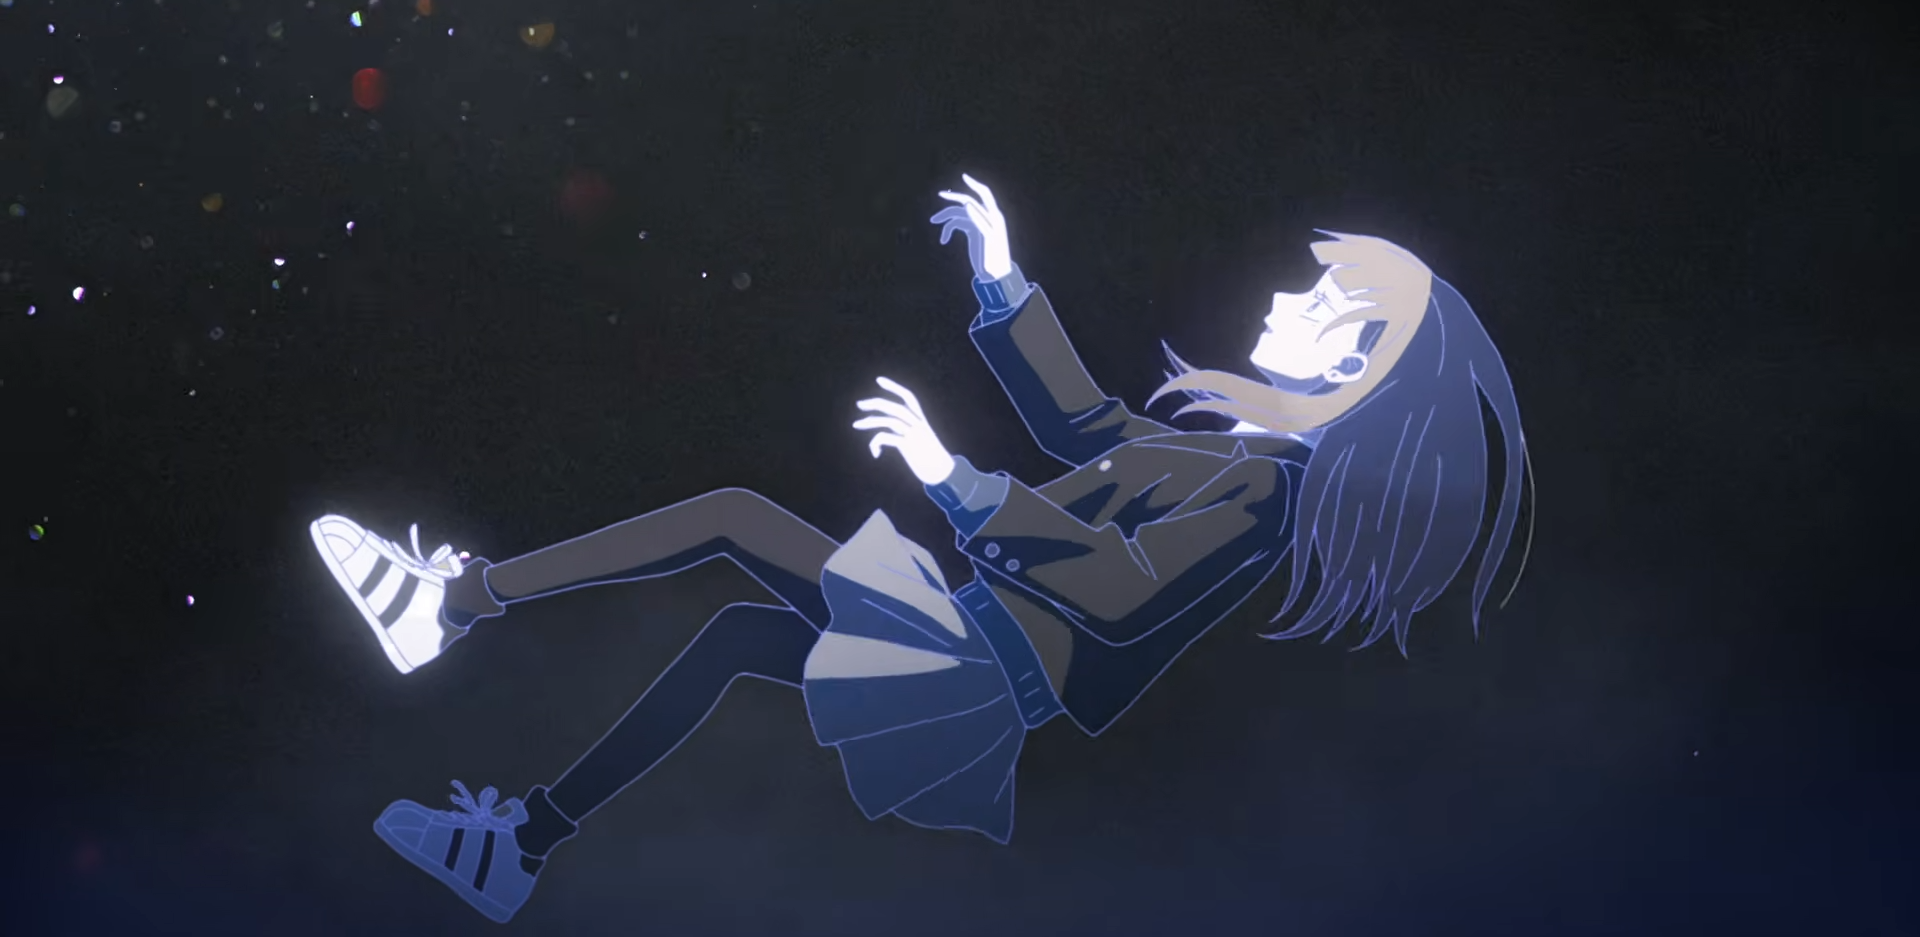
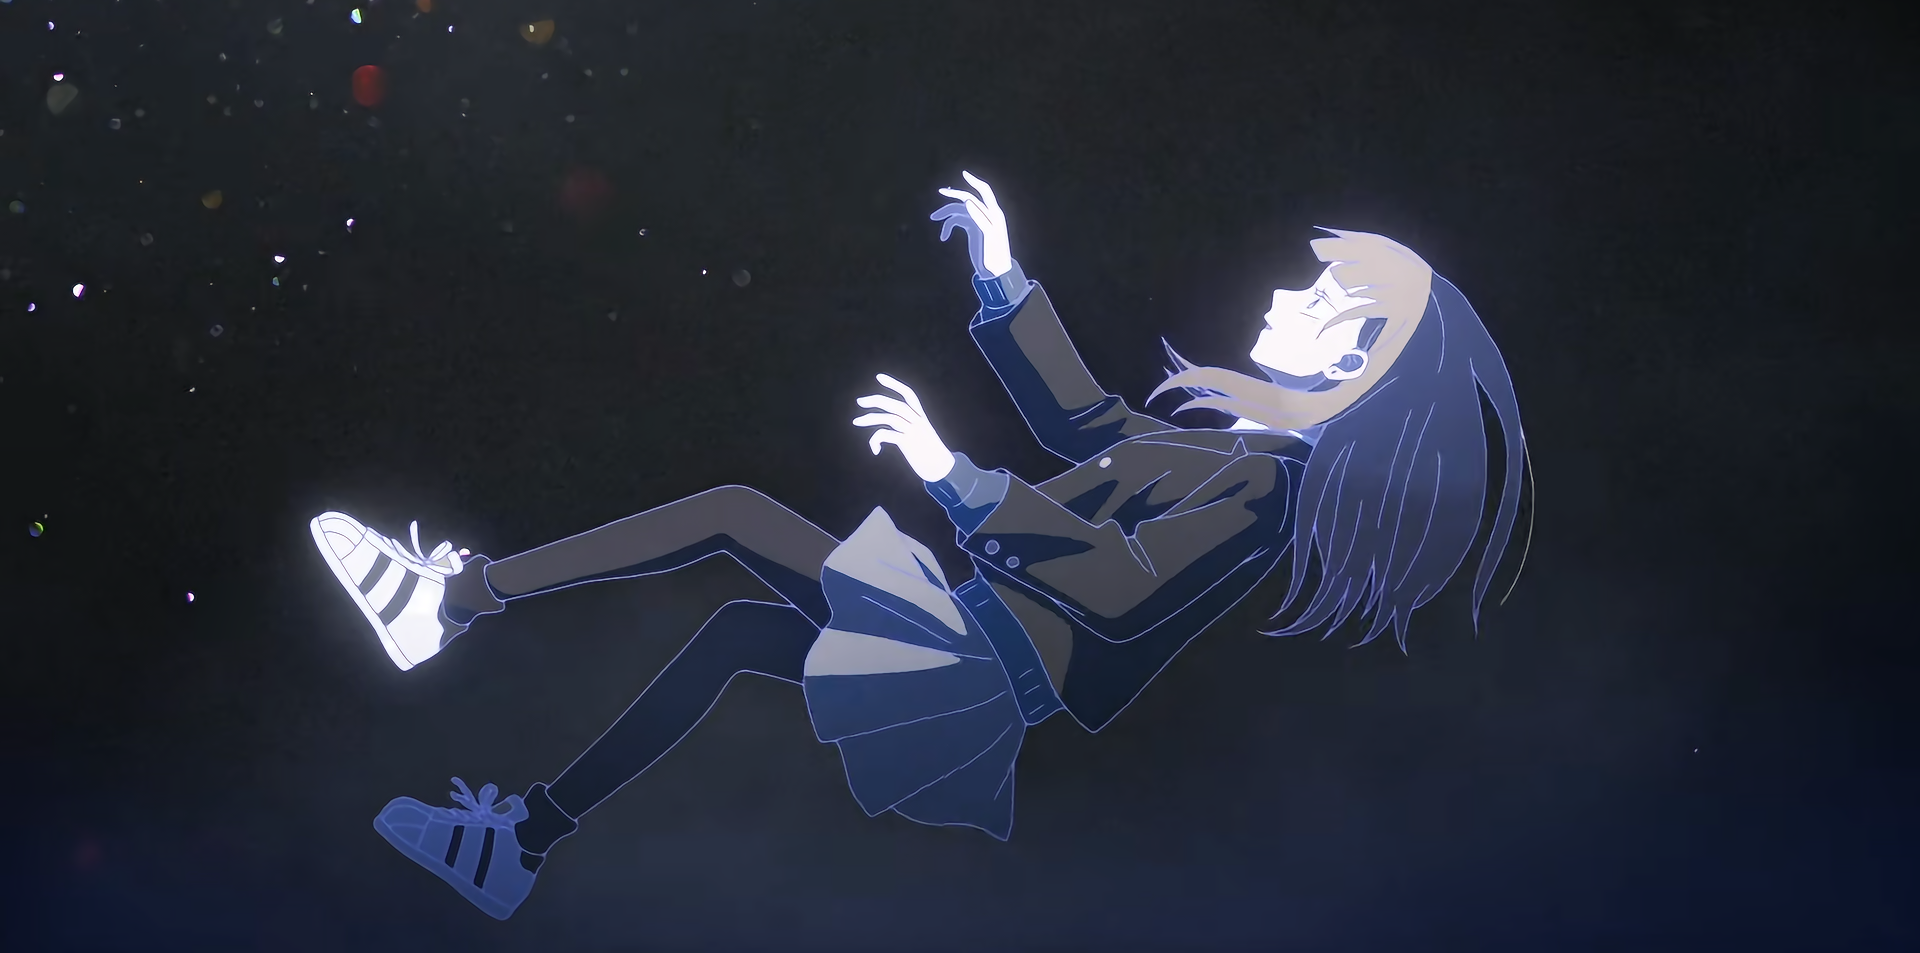
Fixed the movable windows class a bit

diff --git a/JS/Classes.js b/JS/Classes.js
@@ -205,21 +205,20 @@ class MovableWindow {
         this.win.style.position = "absolute";
         this.bar.style.cursor = "grab";
 
-        this.bar.addEventListener("mousedown", this.onMouseDown);
-        window.addEventListener("mousemove", this.onMouseMove);
-        window.addEventListener("mouseup", this.onMouseUp);
+        this.bar.addEventListener("pointerdown", this.onPointerDown);
+        window.addEventListener("pointermove", this.onPointerMove);
+        window.addEventListener("pointerup", this.onPointerUp);
+        window.addEventListener("pointercancel", this.onPointerUp);
     }
 
-    onMouseDown = (e) => {
+    onPointerDown = (e) => {
+        e.preventDefault();
         this.dragging = true;
-
         const rect = this.win.getBoundingClientRect();
-
         this.offsetX = e.clientX - rect.left;
         this.offsetY = e.clientY - rect.top;
-
         this.bar.style.cursor = "grabbing";
-
+        this.bar.setPointerCapture(e.pointerId);
         const computed = window.getComputedStyle(this.win);
         const right = computed.right !== "auto";
         const bottom = computed.bottom !== "auto";
@@ -234,28 +233,20 @@ class MovableWindow {
         document.body.style.userSelect = "none";
     };
 
-    onMouseMove = (e) => {
+    onPointerMove = (e) => {
         if (!this.dragging) return;
-
         const w = this.win.offsetWidth;
         const h = this.win.offsetHeight;
-
-        const maxX = window.innerWidth - w;
-        const maxY = window.innerHeight - h;
-
         let x = e.clientX - this.offsetX;
         let y = e.clientY - this.offsetY;
-
-        x = Math.max(0, Math.min(maxX, x));
-        y = Math.max(0, Math.min(maxY, y));
-
+        x = Math.max(0, Math.min(window.innerWidth - w, x));
+        y = Math.max(0, Math.min(window.innerHeight - h, y));
         this.win.style.left = `${x}px`;
         this.win.style.top = `${y}px`;
     };
 
-    onMouseUp = () => {
+    onPointerUp = () => {
         if (!this.dragging) return;
-
         this.dragging = false;
         this.bar.style.cursor = "grab";
         document.body.style.userSelect = "";

diff --git a/CSS/stylesheet.css b/CSS/stylesheet.css
@@ -341,6 +341,7 @@ input[type="file"]+label {
 .window-topbar {
     padding: 5px;
     height: 20px;
+    touch-action: none;
 }
 
 /*------------------------------------------------*/